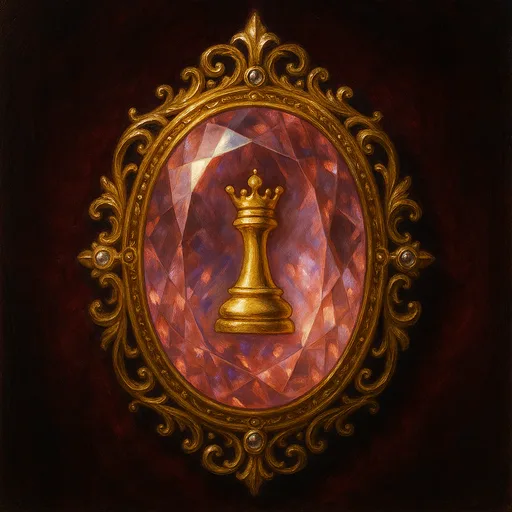
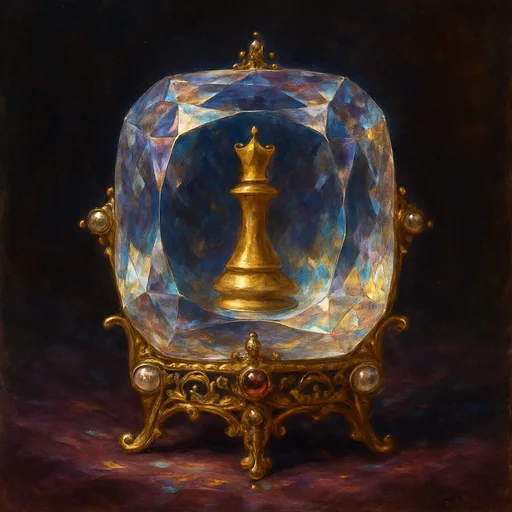
Duchess art: queen encased in a cushion-cut crystal (Tyler's pick D, 2026-09-03) + restyle mock pages
- public/abilities/duchess-1.webp replaced (source: concepts/duchess-1-source-v2.png).
- /test/duchess-icons picker and /test/revenge-play restyle mock (play page approved).
- PRODUCT.md for the impeccable design skill.

Claude-Session: https://claude.ai/code/session_018QZZzs3oaQG9cu9kGQMhZM

diff --git a/app/test/revenge-play/page.tsx b/app/test/revenge-play/page.tsx
@@ -1,0 +1,273 @@
+'use client';
+
+import { useState, type CSSProperties, type ReactNode } from 'react';
+import { DemoBoard } from '@/components/run/DemoBoard';
+import { REVENGE_RED, REVENGE_RED_DARK, RevengeMarkSvg } from '@/components/run/RookiesRevengeLogo';
+import { artFile } from '@/components/run/AbilityCard';
+import { ABILITY_DEFS, type AbilityId } from '@/lib/run/abilities';
+import { TrophyGlyph } from '@/components/run/AchievementToast';
+
+/**
+ * MOCK — Revenge play-page restyle (Tyler 2026-09-03: "I love the layout of
+ * everything, just mainly the background color… the little rules at the top
+ * we'll probably have to take"). Same layout as app/page.tsx, Arena palette,
+ * no RulesInline. Plus the between-level popup and three tab-bar options.
+ */
+
+// ── Arena kit (copied from ArenaHome, not shared on purpose — this is a mock) ─
+const NAVY = '#0f1c3f';
+const NAVY_2 = '#182a5c';
+const PANEL = '#1c2f63';
+const PANEL_EDGE = '#3a4f8f';
+const GOLD = '#FFC800';
+const GREEN = '#58CC02';
+const GREEN_DARK = '#3d8c01';
+const OUTLINE: CSSProperties = { color: '#fff', textShadow: '0 2px 0 rgba(0,0,0,0.45), -1px 0 0 rgba(0,0,0,0.35), 1px 0 0 rgba(0,0,0,0.35), 0 -1px 0 rgba(0,0,0,0.35)' };
+const GOLD_TEXT: CSSProperties = { color: GOLD, textShadow: '0 2px 0 rgba(0,0,0,0.5)' };
+const FRAME: CSSProperties = { background: 'linear-gradient(180deg,#3d5297 0%,#1b2b5c 100%)', boxShadow: 'inset 0 2px 0 rgba(255,255,255,0.25), inset 0 -4px 0 rgba(0,0,0,0.4), 0 10px 26px rgba(0,0,0,0.45)' };
+const PANEL_STYLE: CSSProperties = { background: PANEL, border: `2px solid ${PANEL_EDGE}`, boxShadow: 'inset 0 2px 0 rgba(255,255,255,0.14), inset 0 -3px 0 rgba(0,0,0,0.35), 0 4px 10px rgba(0,0,0,0.35)' };
+const MUTED: CSSProperties = { color: 'rgba(255,255,255,0.6)' };
+
+function Chip({ children, className = '', style }: { children: ReactNode; className?: string; style?: CSSProperties }) {
+  return <div className={`rounded-lg px-2.5 py-1.5 inline-flex items-center gap-1.5 leading-none ${className}`} style={{ ...PANEL_STYLE, ...style }}>{children}</div>;
+}
+
+function CpButton({ children, color = REVENGE_RED, shadow = REVENGE_RED_DARK, depth = 6, className = '' }: { children: ReactNode; color?: string; shadow?: string; depth?: number; className?: string }) {
+  return (
+    <button type="button" className={`w-full rounded-[16px] font-black flex items-center justify-center gap-3 active:translate-y-[4px] active:shadow-none transition-transform ${className}`} style={{ background: color, color: '#fff', boxShadow: `0 ${depth}px 0 ${shadow}` }}>
+      {children}
+    </button>
+  );
+}
+
+function Phone({ children, label }: { children: ReactNode; label: string }) {
+  return (
+    <div className="flex flex-col items-center gap-3">
+      <div className="text-sm font-black uppercase tracking-[0.18em]" style={GOLD_TEXT}>{label}</div>
+      <div className="relative overflow-hidden rounded-[36px]" style={{ width: 390, height: 800, border: '10px solid #06091a', boxShadow: '0 20px 60px rgba(0,0,0,0.6)', background: NAVY }}>
+        {children}
+      </div>
+    </div>
+  );
+}
+
+// ── Static game bits ─────────────────────────────────────────────────────────
+const RACK: { id: AbilityId; tier: number; uses: number; max: number }[] = [
+  { id: 'knight-hop', tier: 2, uses: 1, max: 1 },
+  { id: 'rewind', tier: 1, uses: 1, max: 1 },
+  { id: 'bishop-step', tier: 1, uses: 0, max: 1 },
+];
+
+function RackCard({ id, tier, uses, max }: { id: AbilityId; tier: number; uses: number; max: number }) {
+  const spent = uses === 0;
+  return (
+    <div className="rounded-[12px] p-[3px]" style={{ width: 100, background: 'linear-gradient(135deg,#b8852b,#6a4612 30%,#ffd87a 60%,#b8852b)', boxShadow: '0 5px 12px rgba(0,0,0,0.45)', opacity: spent ? 0.45 : 1, filter: spent ? 'grayscale(0.7)' : undefined }}>
+      <div className="rounded-[9px] overflow-hidden flex flex-col" style={{ background: '#f6e7c5' }}>
+        <div className="text-[9px] font-black text-center py-[3px] uppercase tracking-wide" style={{ color: '#3d2806' }}>{ABILITY_DEFS[id].name}</div>
+        <div className="relative" style={{ height: 78, background: 'radial-gradient(ellipse at center,#ffe9a8 0%,#d49a2a 100%)' }}>
+          {/* eslint-disable-next-line @next/next/no-img-element */}
+          <img src={`/abilities/${artFile(id)}`} alt="" className="absolute inset-0 w-full h-full object-cover" draggable={false} />
+        </div>
+        <div className="flex items-center justify-between px-1.5 py-[3px]">
+          <div className="flex gap-0.5">{Array.from({ length: max }).map((_, i) => <span key={i} className="w-2 h-2 rounded-full" style={{ background: i < uses ? '#3d2806' : 'rgba(61,40,6,0.25)' }} />)}</div>
+          <span className="text-[9px] font-black" style={{ color: '#3d2806' }}>T{tier}</span>
+        </div>
+      </div>
+    </div>
+  );
+}
+
+function PlayScreen({ dim = false }: { dim?: boolean }) {
+  return (
+    <div className="absolute inset-0 flex flex-col text-white" style={{ background: `linear-gradient(180deg, ${NAVY_2} 0%, ${NAVY} 60%)`, filter: dim ? 'brightness(0.45)' : undefined }}>
+      <div className="px-3 pt-4 pb-3 flex flex-col gap-2.5">
+        {/* header — same slots as the real page, minus the rules strip */}
+        <header className="flex items-start justify-between gap-3">
+          <div className="flex items-center gap-1.5 pt-1">
+            <RevengeMarkSvg size={30} />
+            <span className="text-[13px] font-black leading-none" style={OUTLINE}>Rookie&rsquo;s <span style={{ color: '#FF6B66' }}>REVENGE</span></span>
+          </div>
+          <div className="flex flex-col items-end gap-1.5">
+            <div className="flex items-center gap-1.5">
+              <Chip className="w-8 h-8 !px-0 justify-center"><svg width="14" height="14" viewBox="0 0 24 24" fill="rgba(255,255,255,0.7)" aria-hidden><path d="M9 18V6l10-2v12" stroke="rgba(255,255,255,0.7)" strokeWidth="2" fill="none" /><circle cx="6" cy="18" r="3" /><circle cx="16" cy="16" r="3" /></svg></Chip>
+              <Chip className="w-8 h-8 !px-0 justify-center"><TrophyGlyph size={16} color={GOLD} /></Chip>
+              <Chip><span className="text-[9px] font-black uppercase tracking-[0.14em]" style={MUTED}>Lvl</span><span className="text-sm font-black tabular-nums" style={GOLD_TEXT}>3<span style={{ color: 'rgba(255,255,255,0.45)' }}>/10</span></span></Chip>
+            </div>
+            <div className="flex items-center gap-1.5">
+              <Chip className="!py-1"><span className="text-[10px] font-black tabular-nums" style={MUTED}>1:42</span></Chip>
+              <Chip className="!py-1"><span className="text-[9px] font-black uppercase tracking-[0.14em]" style={MUTED}>Normal</span></Chip>
+              <Chip className="!py-1"><span className="text-sm font-black tabular-nums" style={OUTLINE}>6</span><span className="text-[9px] font-black uppercase tracking-[0.14em]" style={MUTED}>moves</span></Chip>
+            </div>
+          </div>
+        </header>
+
+        {/* tempo bar */}
+        <div className="flex items-center gap-2">
+          <div className="flex-1 rounded-lg px-2.5 py-1.5 flex items-center gap-2.5" style={PANEL_STYLE}>
+            <span className="text-[10px] font-black uppercase tracking-[0.14em] leading-none" style={MUTED}>Tempo</span>
+            <div className="flex items-baseline gap-0.5"><span className="text-sm font-black tabular-nums leading-none" style={GOLD_TEXT}>5</span><span className="text-[10px] font-bold leading-none" style={{ color: 'rgba(255,255,255,0.45)' }}>/8</span></div>
+            <div className="flex-1 flex gap-0.5">{Array.from({ length: 8 }).map((_, i) => <span key={i} className="flex-1 h-2 rounded-sm" style={{ background: i < 5 ? GOLD : 'rgba(0,0,0,0.35)', boxShadow: i < 5 ? '0 0 6px rgba(255,200,0,0.5)' : undefined }} />)}</div>
+            <span className="text-xs font-black leading-none" style={OUTLINE}>Rook</span>
+          </div>
+          <div className="w-7 h-7 rounded-full flex items-center justify-center text-xs font-black" style={{ background: 'rgba(255,255,255,0.1)', ...MUTED }}>?</div>
+        </div>
+
+        {/* board in the home's gold-ish frame */}
+        <div className="rounded-[20px] p-2" style={FRAME}>
+          <div className="rounded-[14px] overflow-hidden" style={{ boxShadow: 'inset 0 0 0 2px rgba(0,0,0,0.35)' }}><DemoBoard reticle={false} paused={dim} /></div>
+        </div>
+
+        {/* rack */}
+        <div className="flex justify-center gap-2.5 pt-1">
+          {RACK.map((a) => <RackCard key={a.id} {...a} />)}
+          <div className="rounded-[12px] flex items-center justify-center" style={{ width: 100, border: `2px dashed ${PANEL_EDGE}`, background: 'rgba(0,0,0,0.2)' }}><span className="text-[10px] font-black uppercase tracking-wider" style={{ color: 'rgba(255,255,255,0.35)' }}>Empty</span></div>
+        </div>
+        <div className="text-center text-[11px] font-bold" style={MUTED}>Fill tempo to claim a power</div>
+      </div>
+    </div>
+  );
+}
+
+// ── Popups ───────────────────────────────────────────────────────────────────
+function ClearedModal() {
+  return (
+    <div className="absolute inset-0 flex items-center justify-center px-5" style={{ background: 'rgba(0,0,0,0.35)' }}>
+      <div className="w-full rounded-[22px] p-[3px]" style={{ background: 'linear-gradient(180deg,#5b2030 0%,#2a0f18 100%)', boxShadow: 'inset 0 2px 0 rgba(255,255,255,0.2), 0 16px 40px rgba(0,0,0,0.6)' }}>
+        <div className="rounded-[19px] p-5 text-center" style={{ background: 'linear-gradient(180deg,#1c2f63 0%,#0f1c3f 100%)', boxShadow: 'inset 0 0 0 2px rgba(0,0,0,0.35)' }}>
+          <div className="text-[10px] font-black uppercase tracking-[0.2em]" style={{ color: '#FF6B66' }}>The Fortress</div>
+          <div className="mt-1 text-[22px] font-black uppercase tracking-wide" style={OUTLINE}>Cleared!</div>
+          <div className="mt-2 flex items-baseline justify-center gap-2">
+            <div className="text-[64px] leading-none font-black uppercase tracking-tight" style={GOLD_TEXT}>Level 4</div>
+            <div className="text-base font-black" style={{ color: 'rgba(255,255,255,0.45)' }}>of 10</div>
+          </div>
+          <p className="mt-3 text-[13px] font-bold" style={{ color: 'rgba(255,255,255,0.8)' }}>He moved his whole court for you. Rude.</p>
+          <div className="mt-5"><CpButton color={GREEN} shadow={GREEN_DARK} className="min-h-[54px] text-[18px]"><span style={OUTLINE}>NEXT LEVEL</span></CpButton></div>
+        </div>
+      </div>
+    </div>
+  );
+}
+
+function LostModal() {
+  return (
+    <div className="absolute inset-0 flex items-center justify-center px-5" style={{ background: 'rgba(0,0,0,0.35)' }}>
+      <div className="w-full rounded-[22px] p-[3px]" style={{ background: 'linear-gradient(180deg,#5b2030 0%,#2a0f18 100%)', boxShadow: 'inset 0 2px 0 rgba(255,255,255,0.2), 0 16px 40px rgba(0,0,0,0.6)' }}>
+        <div className="rounded-[19px] p-5 text-center" style={{ background: 'linear-gradient(180deg,#1c2f63 0%,#0f1c3f 100%)', boxShadow: 'inset 0 0 0 2px rgba(0,0,0,0.35)' }}>
+          <div className="text-[10px] font-black uppercase tracking-[0.2em]" style={{ color: '#FF6B66' }}>Level 5 · The Fortress</div>
+          <div className="mt-1 text-[40px] leading-none font-black uppercase tracking-tight" style={{ color: '#FF6B66', textShadow: '0 2px 0 rgba(0,0,0,0.5)' }}>Captured</div>
+          <p className="mt-3 text-[13px] font-bold" style={{ color: 'rgba(255,255,255,0.8)' }}>The bishop got her. This is fine. This is completely fine.</p>
+          <div className="mt-2 flex items-center justify-center gap-2 text-[11px] font-black">
+            <span className="px-2 py-1 rounded-md" style={{ background: 'rgba(255,255,255,0.1)' }}>2 retries left</span>
+            <span className="px-2 py-1 rounded-md" style={{ background: 'rgba(255,200,0,0.15)', ...GOLD_TEXT }}>4 captures</span>
+          </div>
+          <div className="mt-5 flex flex-col gap-2.5">
+            <CpButton className="min-h-[54px] text-[18px]"><span style={OUTLINE}>RETRY LEVEL</span></CpButton>
+            <button type="button" className="min-h-[40px] text-[12px] font-black" style={MUTED}>Give up the run</button>
+          </div>
+        </div>
+      </div>
+    </div>
+  );
+}
+
+// ── Tab bar options ──────────────────────────────────────────────────────────
+const TABS = ['Ladder', 'Ranks', 'Revenge', 'Codex'] as const;
+type Tab = (typeof TABS)[number];
+const TAB_ART: Record<Tab, string> = { Ladder: 'ladder-b', Ranks: 'ranks-a', Revenge: 'revenge-g', Codex: 'codex-a' };
+
+function Icon({ t, size, on }: { t: Tab; size: number; on: boolean }) {
+  // eslint-disable-next-line @next/next/no-img-element
+  return <img src={`/ui/tabs/${TAB_ART[t]}.webp`} alt="" width={size} height={size} style={{ width: size, height: size, filter: on ? 'drop-shadow(0 0 8px rgba(255,200,0,0.6))' : 'saturate(0.5) brightness(0.6)', transition: 'filter 200ms, transform 200ms' }} />;
+}
+
+/** A — big icons, gold pill on the active tab, labels only on the active tab. */
+function TabBarA() {
+  const [active, setActive] = useState<Tab>('Revenge');
+  return (
+    <div className="grid grid-cols-4 rounded-2xl p-1.5 gap-1" style={{ background: '#0a1230', border: `2px solid ${PANEL_EDGE}`, boxShadow: 'inset 0 2px 0 rgba(255,255,255,0.08), 0 4px 0 rgba(0,0,0,0.35)' }}>
+      {TABS.map((t) => {
+        const on = t === active;
+        return (
+          <button key={t} type="button" onClick={() => setActive(t)} className="min-h-[76px] rounded-xl flex flex-col items-center justify-center gap-1" style={on ? { background: 'linear-gradient(180deg,#4a63b0,#24397a)', border: `2px solid ${GOLD}`, boxShadow: 'inset 0 2px 0 rgba(255,255,255,0.25), 0 3px 0 rgba(0,0,0,0.45)' } : undefined}>
+            <Icon t={t} size={on ? 50 : 56} on={on} />
+            {on && <span className="text-[11px] font-black uppercase tracking-wide" style={{ ...OUTLINE, color: GOLD }}>{t}</span>}
+          </button>
+        );
+      })}
+    </div>
+  );
+}
+
+/** B — Clash-style: the active tab pops UP above the bar as a taller gold tab. */
+function TabBarB() {
+  const [active, setActive] = useState<Tab>('Revenge');
+  return (
+    <div className="relative pt-4">
+      <div className="grid grid-cols-4 rounded-2xl" style={{ background: '#0a1230', border: `2px solid ${PANEL_EDGE}`, boxShadow: 'inset 0 2px 0 rgba(255,255,255,0.08), 0 4px 0 rgba(0,0,0,0.35)' }}>
+        {TABS.map((t) => {
+          const on = t === active;
+          return (
+            <button key={t} type="button" onClick={() => setActive(t)} className="relative min-h-[70px] flex flex-col items-center justify-end pb-2 gap-0.5">
+              {on ? (
+                <div className="absolute left-1 right-1 -top-4 bottom-1 rounded-t-[14px] rounded-b-xl flex flex-col items-center justify-center gap-0.5" style={{ background: `linear-gradient(180deg,${GOLD},#e0a800)`, boxShadow: '0 4px 0 #8a6200, 0 -2px 0 rgba(255,255,255,0.35) inset' }}>
+                  <Icon t={t} size={54} on />
+                  <span className="text-[12px] font-black uppercase tracking-wide" style={{ color: '#3a2a00' }}>{t}</span>
+                </div>
+              ) : (
+                <>
+                  <Icon t={t} size={44} on={false} />
+                  <span className="text-[10px] font-black uppercase tracking-wide" style={{ color: 'rgba(255,255,255,0.45)' }}>{t}</span>
+                </>
+              )}
+            </button>
+          );
+        })}
+      </div>
+    </div>
+  );
+}
+
+/** C — segmented: the active tab fills solid Revenge red, icon scales up. */
+function TabBarC() {
+  const [active, setActive] = useState<Tab>('Revenge');
+  return (
+    <div className="grid grid-cols-4 rounded-2xl overflow-hidden" style={{ border: `2px solid ${PANEL_EDGE}`, boxShadow: '0 4px 0 rgba(0,0,0,0.35)' }}>
+      {TABS.map((t, i) => {
+        const on = t === active;
+        return (
+          <button key={t} type="button" onClick={() => setActive(t)} className="min-h-[74px] flex flex-col items-center justify-center gap-1" style={{ background: on ? REVENGE_RED : PANEL, borderLeft: i > 0 ? '2px solid rgba(0,0,0,0.35)' : undefined, boxShadow: on ? 'inset 0 -5px 0 ' + REVENGE_RED_DARK : 'inset 0 2px 0 rgba(255,255,255,0.1)' }}>
+            <Icon t={t} size={44} on={on} />
+            <span className="text-[11px] font-black uppercase tracking-wide" style={on ? OUTLINE : { color: 'rgba(255,255,255,0.5)' }}>{t}</span>
+          </button>
+        );
+      })}
+    </div>
+  );
+}
+
+// ── Page ─────────────────────────────────────────────────────────────────────
+export default function RevengePlayMock() {
+  return (
+    <div className="h-full overflow-auto text-white" style={{ background: '#06091a' }}>
+      <div className="max-w-5xl mx-auto px-4 py-8 flex flex-col gap-12">
+        <div>
+          <h1 className="text-2xl font-black">Revenge restyle — mock, Sep 3</h1>
+          <p className="text-sm mt-1" style={MUTED}>Same layout as today, Arena palette, rules strip gone. Nothing here is wired; it&rsquo;s for the look.</p>
+        </div>
+
+        <div className="flex flex-wrap justify-center gap-10">
+          <Phone label="1 · Play page"><PlayScreen /></Phone>
+          <Phone label="2 · Level cleared"><PlayScreen dim /><ClearedModal /></Phone>
+          <Phone label="2b · Level lost"><PlayScreen dim /><LostModal /></Phone>
+        </div>
+
+        <div className="max-w-[390px] w-full mx-auto flex flex-col gap-8">
+          <div className="text-sm font-black uppercase tracking-[0.18em] text-center" style={GOLD_TEXT}>3 · Tab bar options (tap to switch)</div>
+          <div className="flex flex-col gap-2"><span className="text-xs font-black" style={MUTED}>A — gold pill, big icons, label only on the active tab</span><TabBarA /></div>
+          <div className="flex flex-col gap-2"><span className="text-xs font-black" style={MUTED}>B — Clash-style pop-up tab</span><TabBarB /></div>
+          <div className="flex flex-col gap-2"><span className="text-xs font-black" style={MUTED}>C — segmented, active fills Revenge red</span><TabBarC /></div>
+        </div>
+      </div>
+    </div>
+  );
+}

diff --git a/app/test/duchess-icons/page.tsx b/app/test/duchess-icons/page.tsx
@@ -1,0 +1,48 @@
+'use client';
+
+/** Duchess icon picker — Tyler 2026-09-03: "not as good as the other ones." Current vs two new candidates. */
+
+const NAVY = '#0f1c3f';
+const GOLD_FRAME = 'linear-gradient(135deg,#b8852b,#6a4612 30%,#ffd87a 60%,#b8852b)';
+
+const OPTIONS = [
+  { label: 'Current', src: '/abilities/duchess-1.webp' },
+  { label: 'C — encased, oval opal', src: '/abilities/concepts/duchess-4.webp' },
+  { label: 'D — encased, cushion crystal', src: '/abilities/concepts/duchess-5.webp' },
+  { label: 'E — encased, teardrop', src: '/abilities/concepts/duchess-6.webp' },
+  { label: 'A — opal Mox (round 2)', src: '/abilities/concepts/duchess-2.webp' },
+  { label: 'B — mother-of-pearl Mox (round 2)', src: '/abilities/concepts/duchess-3.webp' },
+];
+
+function Tile({ src, size }: { src: string; size: number }) {
+  return (
+    <div className="rounded-[12px] p-[3px]" style={{ width: size, height: size, background: GOLD_FRAME, boxShadow: '0 5px 12px rgba(0,0,0,0.45)' }}>
+      {/* eslint-disable-next-line @next/next/no-img-element */}
+      <img src={src} alt="" className="w-full h-full object-cover rounded-[9px]" />
+    </div>
+  );
+}
+
+export default function DuchessIconsPage() {
+  return (
+    <div className="h-full overflow-auto text-white" style={{ background: NAVY }}>
+      <div className="max-w-2xl mx-auto px-4 py-6">
+        <h1 className="text-2xl font-black">Duchess icon — pick one</h1>
+        <p className="text-sm mt-1" style={{ color: 'rgba(255,255,255,0.65)' }}>Summon a rainbow queen you control. She does not stay long.</p>
+        <div className="mt-6 grid grid-cols-2 sm:grid-cols-3 gap-6">
+          {OPTIONS.map((o) => (
+            <div key={o.src} className="flex flex-col items-center gap-3">
+              <Tile src={o.src} size={200} />
+              <div className="text-sm font-black" style={{ color: '#FFC800' }}>{o.label}</div>
+              <div className="flex items-end gap-3">
+                <Tile src={o.src} size={72} />
+                <Tile src={o.src} size={44} />
+              </div>
+            </div>
+          ))}
+        </div>
+        <p className="text-xs mt-8" style={{ color: 'rgba(255,255,255,0.5)' }}>Sources: public/abilities/concepts/duchess-2.png and duchess-3.png (1024px). Rerun scripts/_gen-duchess.ts in chess-learning-tree for more.</p>
+      </div>
+    </div>
+  );
+}

diff --git a/PRODUCT.md b/PRODUCT.md
@@ -1,0 +1,31 @@
+# Product
+
+## Register
+
+product
+
+## Users
+Phone-first players of Rookie's Revenge (run.chesspath.app + the iOS shell): chess beginners and casual players who came from Chess Path, playing one daily 10-level capture-the-king run in a few minutes, often one-handed, often in a noisy place (gym, commute). They know the pieces, not theory. The job: beat today's run, climb the ladder, unlock powers.
+
+## Product Purpose
+A daily chess roguelike: Rookie (a rook) hunts the enemy King through 10 levels, casting abilities drawn from a daily kit. It exists to be the retention loop for Chess Path — a reason to come back tomorrow. Success = players finish the run, feel the win, and return the next day.
+
+## Brand Personality
+Fun, over-invested, dramatic. Rookie is an AI who cares too much about your chess: proud and short when you win, a theatrical sore loser when she loses ("This is fine. This is completely fine."). Visually it is a mobile game, not a lesson: Clash-style navy/gold game UI, chunky pressable buttons, painted trading-card ability art. Big moments (level cleared, run won, ability unlocked) are celebrated loudly; failure is funny, never punishing.
+
+## Anti-references
+- Chess.com / Lichess density and grey seriousness.
+- Corporate SaaS gradients, glass cards, stock "Get Started" energy.
+- Kids'-app cartoonishness; adults play this.
+- Generic "modal with a headline and a button" popups (the thing being replaced).
+- Emojis anywhere in the UI.
+
+## Design Principles
+1. Rookie is on your side — every screen carries her voice, short and warm.
+2. Show, don't explain — the real board, real pieces, real art; minimal copy.
+3. Celebrate everything, even failure — wins are loud, losses are a joke, both are quick.
+4. Momentum over perfection — never trap the player; one tap moves forward.
+5. Locked palette — navy #0f1c3f / #1c2f63, gold #FFC800, Revenge red #E53935, white text with dark outline, DM Sans only.
+
+## Accessibility & Inclusion
+Tap targets ≥44px. Respect prefers-reduced-motion (crossfade fallbacks). Text contrast ≥4.5:1 on the navy surfaces. Works at 360px wide and up.
